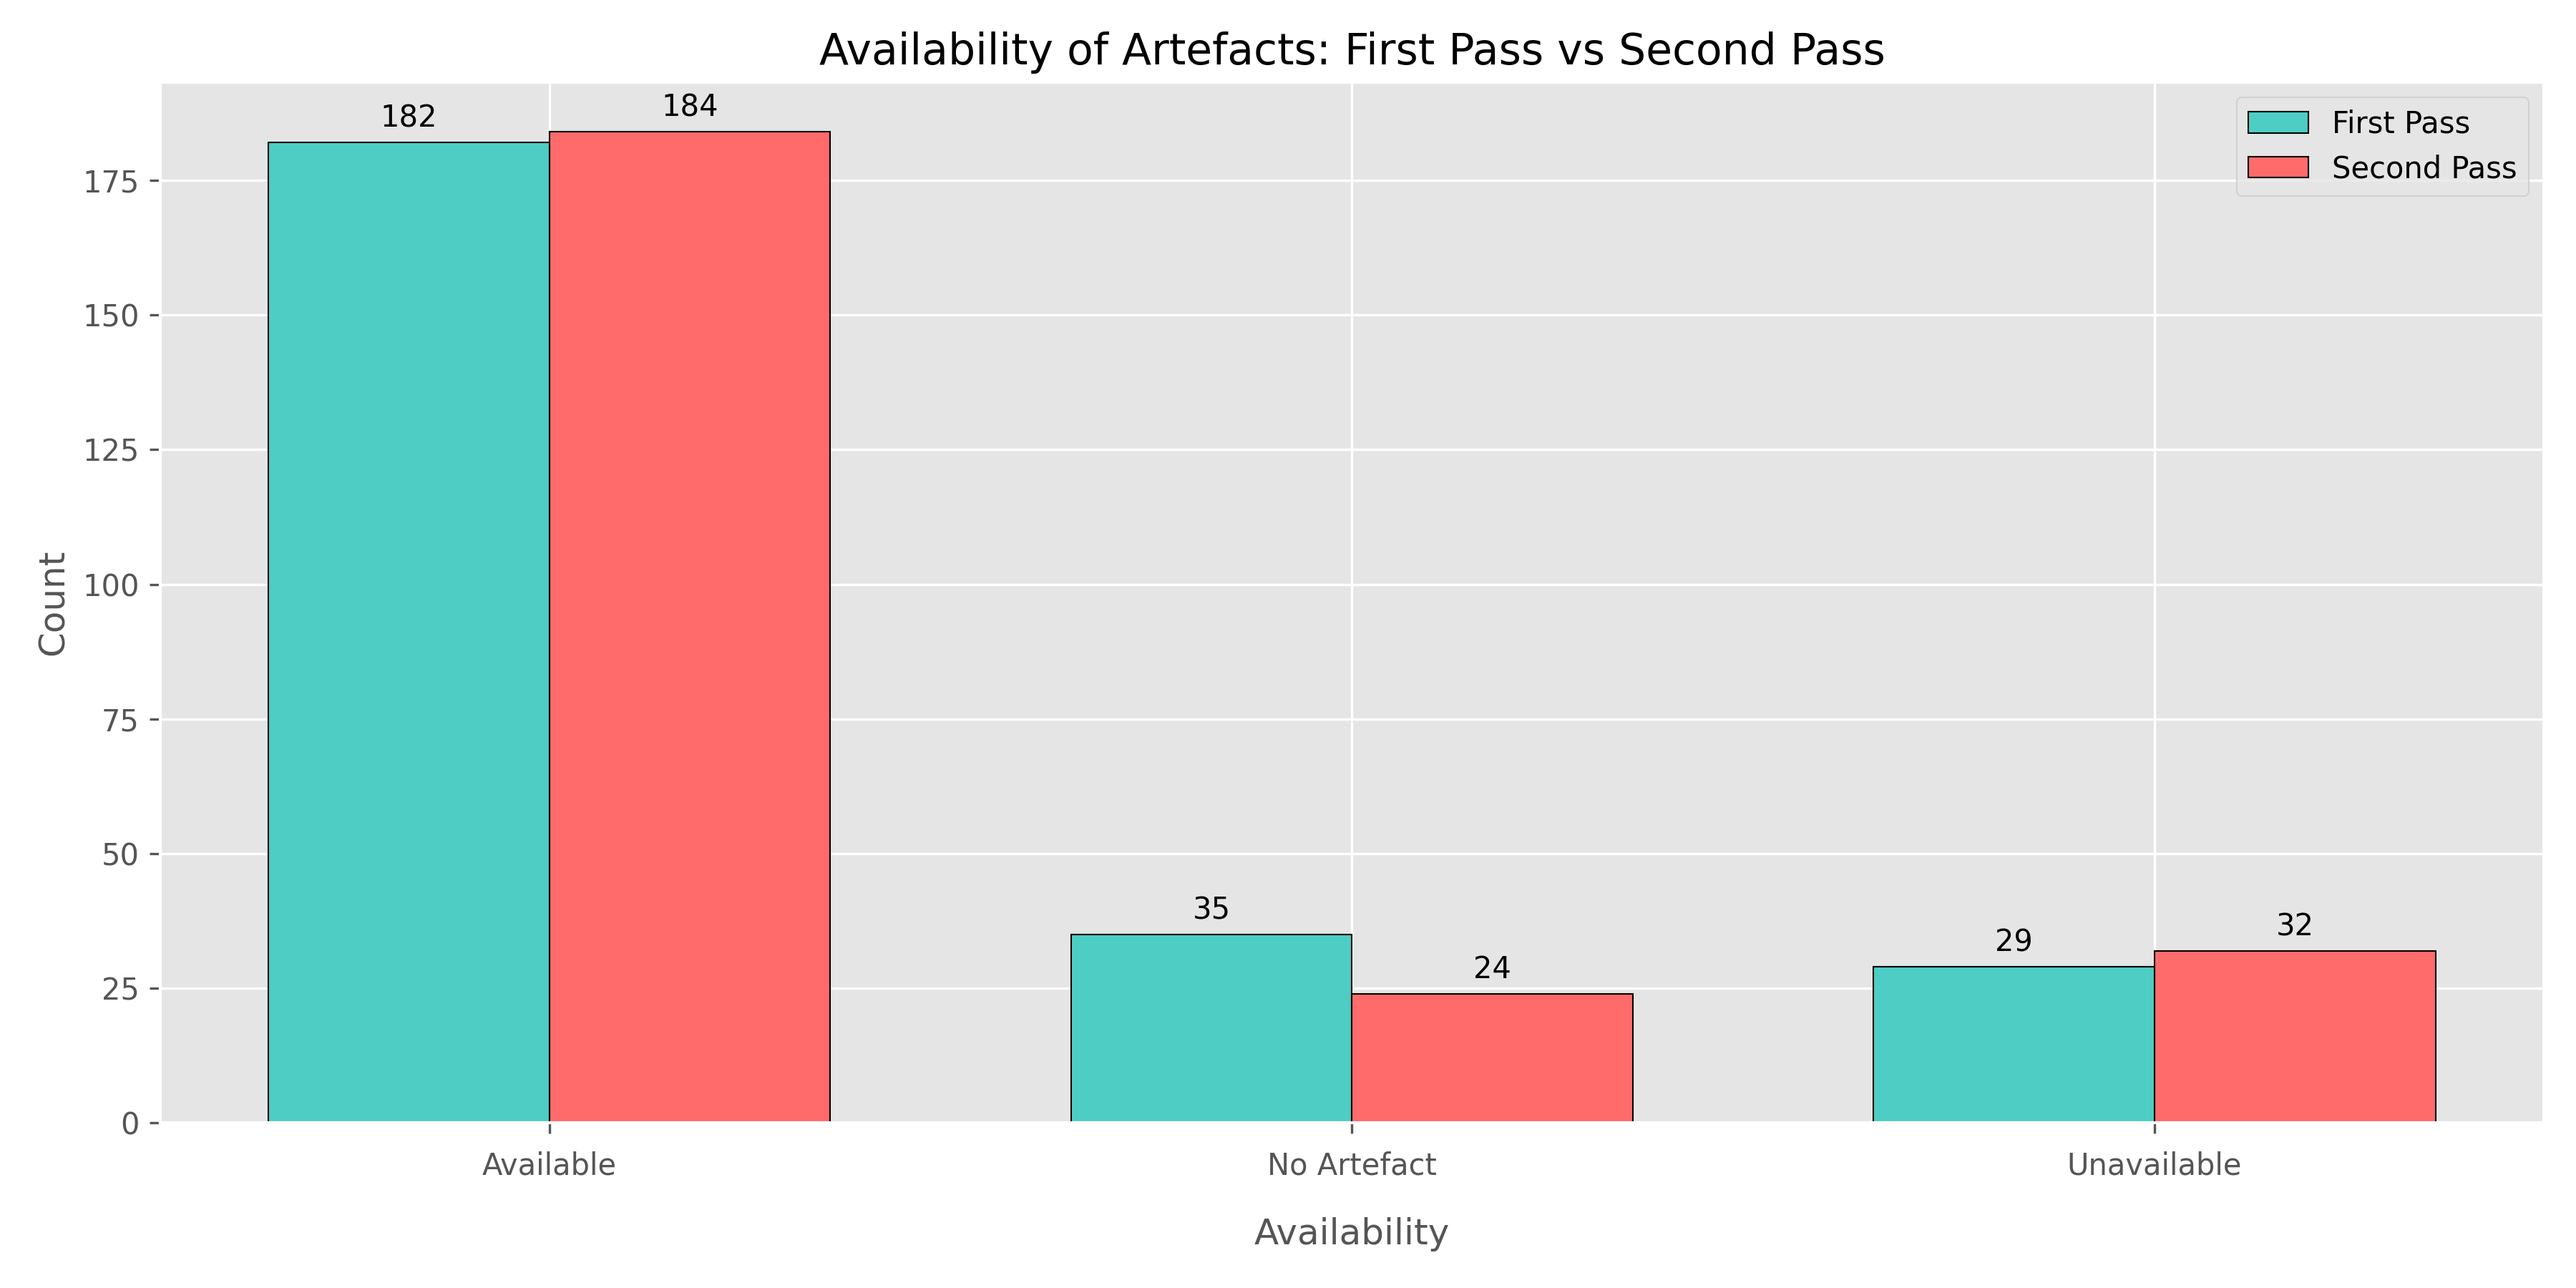
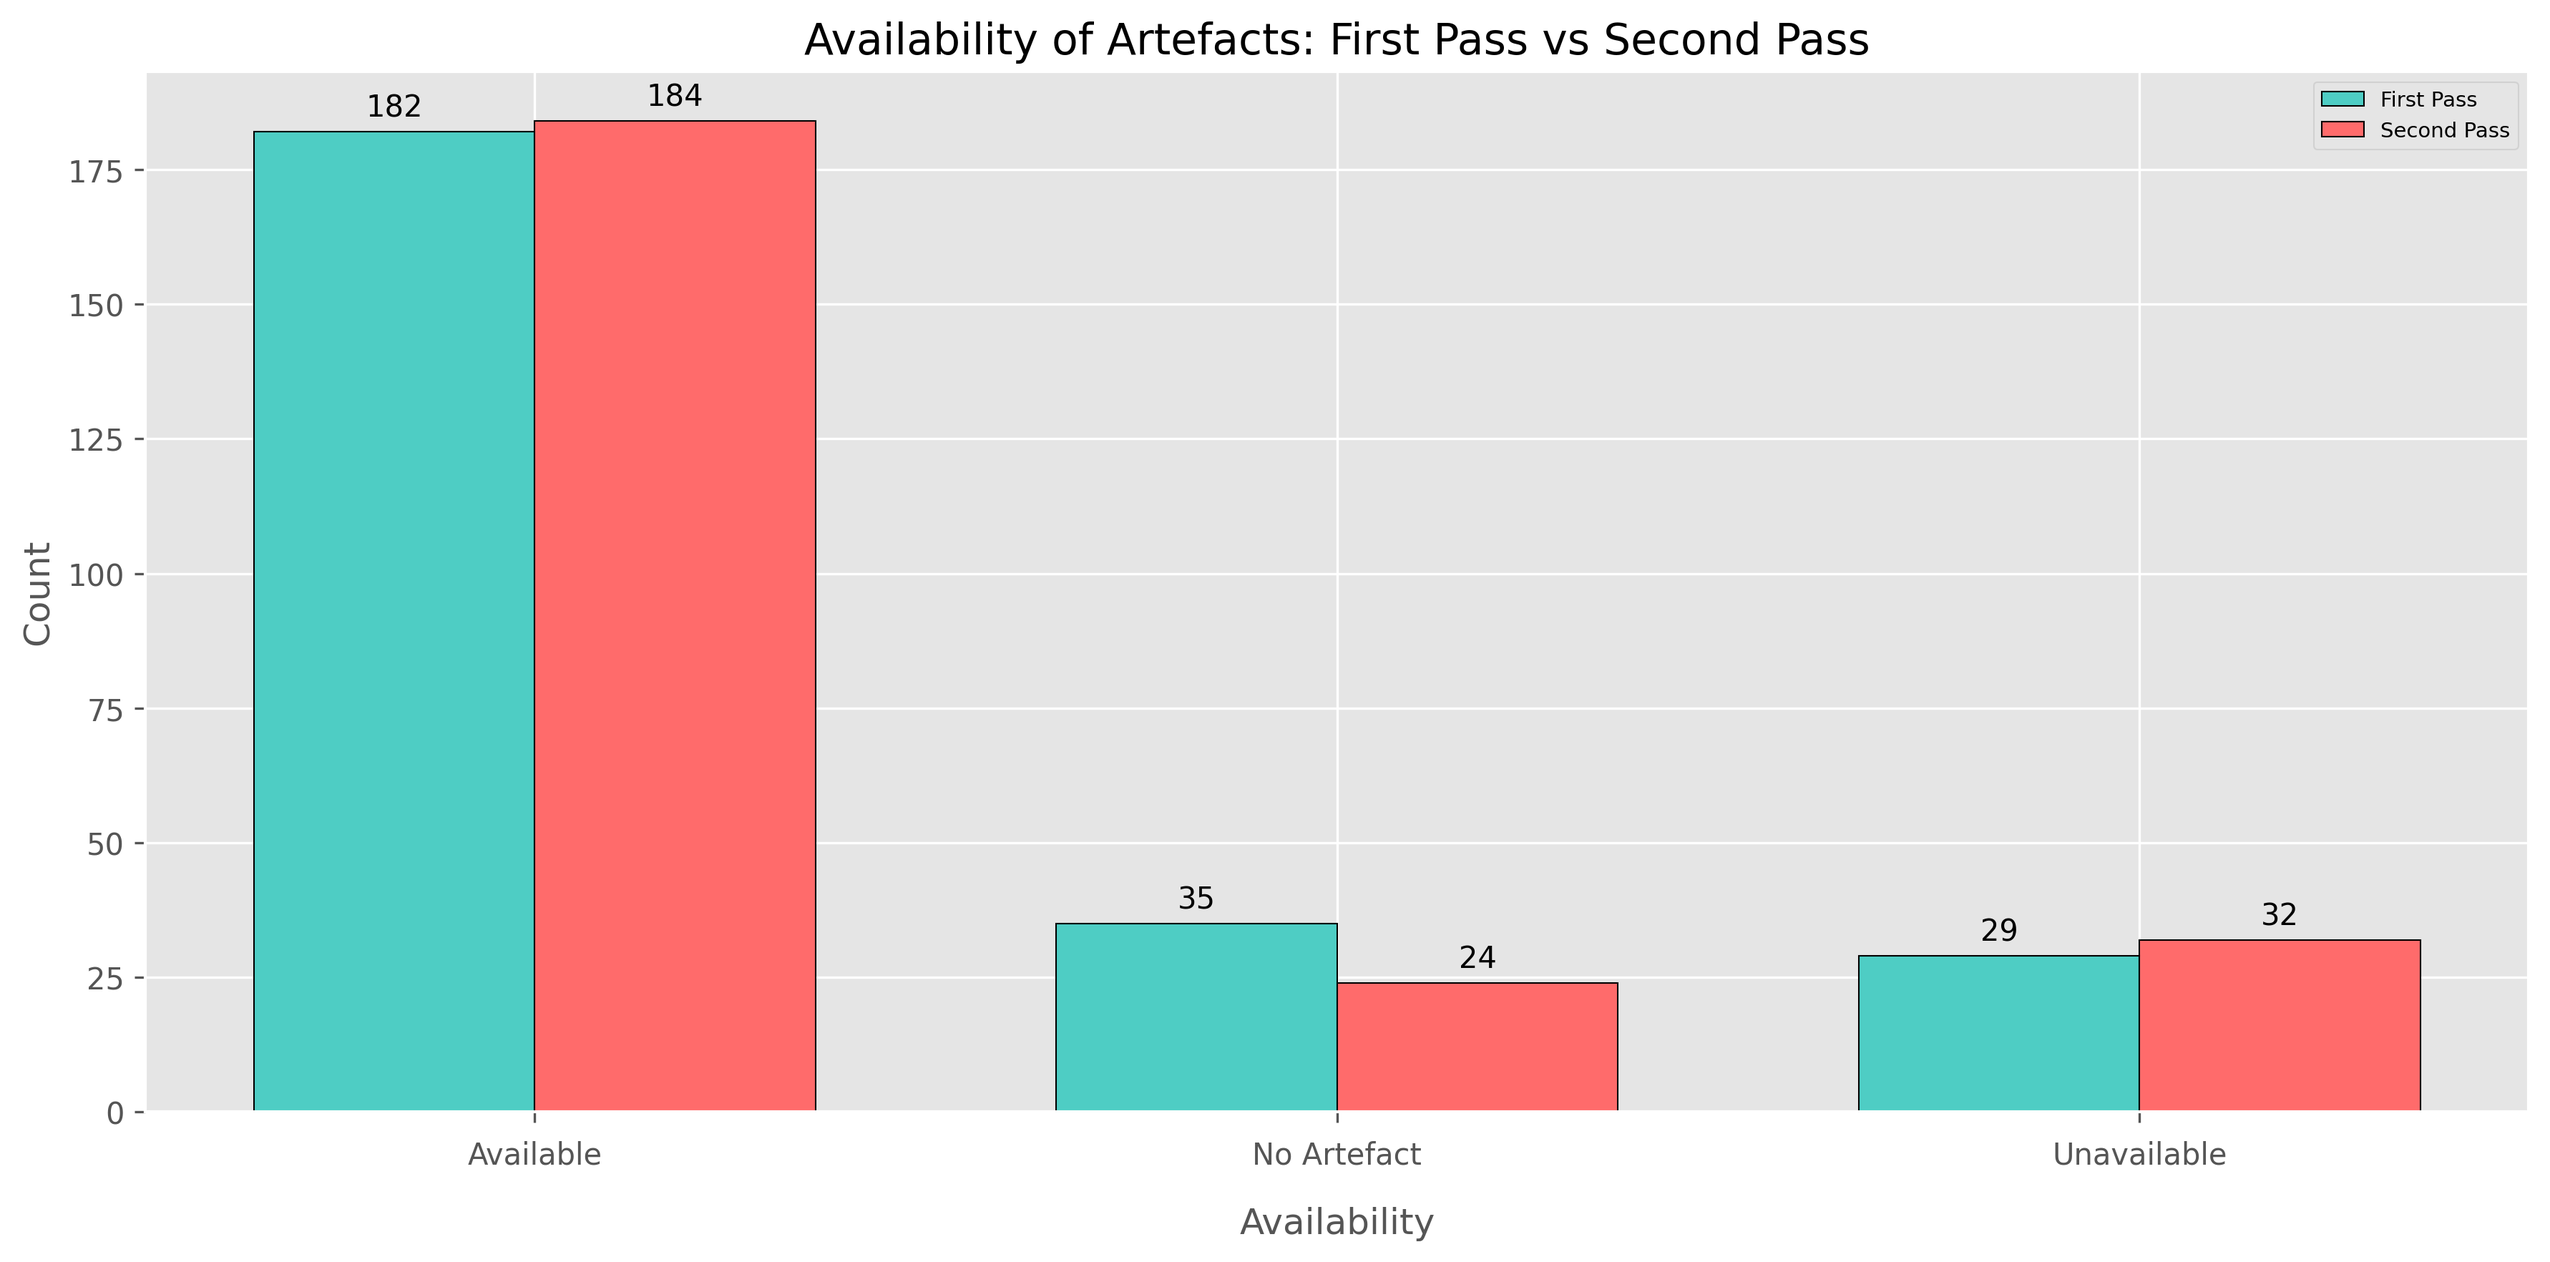
fixed plotting / plotting_scripts

diff --git a/plotting_scripts/repository_stats.py b/plotting_scripts/repository_stats.py
@@ -5,6 +5,9 @@ This file collects and plots some information on our results
 import pandas as pd
 import matplotlib.pyplot as plt
 import os
+import numpy as np
+import re
+from pathlib import Path
 
 
 def get_repo_stats_available(file):
@@ -95,29 +98,50 @@ def get_repo_stats_available(file):
             pass
     return counts_available, counts_unavailable
 
-def plot_graph(stats, filename, title):
+def plot_graph(stats1, stats2, title, label1='First Pass', label2='Second Pass'):
     """
-    A void function to plot the information from get_repo_stats and save it to a png
+    Plot grouped bar charts for two repository statistics dictionaries and save the result.
 
     Args:
-        stats (dict): A dictionary of the counts_available of each repository service
-        filename (str): Filename for the graph
+        stats1 (dict): Counts for the first pass.
+        stats2 (dict): Counts for the second pass.
+        filename (str): Filename for the graph output.
+        title (str): Title for the chart.
+        label1 (str): Label for the first set of bars.
+        label2 (str): Label for the second set of bars.
     """
+    plt.rcParams.update({
+        "figure.figsize": (3.5, 2.5),  # Set exact size
+        "font.size": 8,                # Match paper caption size
+        "axes.labelsize": 9,
+        "legend.fontsize": 7,
+        "savefig.bbox": 'tight',       # Removes wasted white space
+        "lines.linewidth": 1.2
+    })
     plt.style.use('ggplot')
-    sorted_items = sorted(stats.items(), key=lambda item: item[1], reverse=True)
-    categories = [item[0] for item in sorted_items]
-    counts_available = [item[1] for item in sorted_items]
-    colors = ['#FF6B6B', '#4ECDC4', '#45B7D1', '#FFA07A', '#B0E0E6', '#E0BBE4', '#F7CAC9', '#E8F1D4', '#FFD1DC']
+    categories = sorted(
+        set(stats1) | set(stats2),
+        key=lambda item: max(stats1.get(item, 0), stats2.get(item, 0)),
+        reverse=True,
+    )
+    values1 = [stats1.get(category, 0) for category in categories]
+    values2 = [stats2.get(category, 0) for category in categories]
 
-    fig, ax = plt.subplots(figsize=(12, 6))
-    bars = ax.bar(categories, counts_available, color=colors[:len(categories)], edgecolor='black', linewidth=0.5)
+    x = np.arange(len(categories))
+    width = 0.35
+
+    fig, ax = plt.subplots(figsize=(14, 7))
+    bars1 = ax.bar(x - width / 2, values1, width, label=label1, color='#4ECDC4', edgecolor='black', linewidth=0.5)
+    bars2 = ax.bar(x + width / 2, values2, width, label=label2, color='#FF6B6B', edgecolor='black', linewidth=0.5)
+
     ax.set_xlabel('Repository Service')
     ax.set_ylabel('Count')
     ax.set_title(title)
-    ax.set_xticks(range(len(categories)))
+    ax.set_xticks(x)
     ax.set_xticklabels(categories, rotation=45, ha='right')
+    ax.legend()
 
-    for bar in bars:
+    for bar in list(bars1) + list(bars2):
         height = bar.get_height()
         ax.annotate(
             f'{int(height)}',
@@ -129,7 +153,11 @@ def plot_graph(stats, filename, title):
         )
 
     fig.tight_layout()
-    fig.savefig(f"graphs/{filename}.png", dpi=300)
+    graphs_dir = Path("graphs")
+    graphs_dir.mkdir(exist_ok=True)
+    title = ax.get_title()
+    safe_title = re.sub(r"[^A-Za-z0-9]+", "_", title.strip()).strip("_").lower() or "plot"
+    fig.savefig(graphs_dir / f"{safe_title}.png", dpi=300, bbox_inches="tight")
 
 def repo_stats_main():
     """
@@ -152,10 +180,20 @@ def repo_stats_main():
     print(f"Second pass (out of available papers): {second_pass_available}")
     print(f"Second pass (out of unavailable papers): {second_pass_unavailable}")
 
-    plot_graph(first_pass_available, "repos_first_pass_available", "Repository Service Counts (from available artefacts) (first pass)")
-    plot_graph(second_pass_available, "repos_second_pass_available", "Repository Service Counts (from available artefacts) (second pass)")
-    plot_graph(first_pass_unavailable, "repos_first_pass_unavailable", "Repository Service Counts (from unavailable artefacts) (first pass)")
-    plot_graph(second_pass_unavailable, "repos_second_pass_unavailable", "Repository Service Counts (from unavailable artefacts) (second pass)")
+    plot_graph(
+        first_pass_available,
+        second_pass_available,
+        "Repository Service Counts (available artefacts): First Pass vs Second Pass",
+        label1='First Pass',
+        label2='Second Pass',
+    )
+    plot_graph(
+        first_pass_unavailable,
+        second_pass_unavailable,
+        "Repository Service Counts (unavailable artefacts): First Pass vs Second Pass",
+        label1='First Pass',
+        label2='Second Pass',
+    )
 
 if __name__ == '__main__':
     repo_stats_main()

diff --git a/plotting_scripts/artefact_availability.py b/plotting_scripts/artefact_availability.py
@@ -53,7 +53,14 @@ def plot_graph(stats1, stats2, filename, title, label1='First Pass', label2='Sec
         label1 (str): First pass legend label.
         label2 (str): Second pass legend label.
     """
-
+    plt.rcParams.update({
+        "figure.figsize": (3.5, 2.5),  # Set exact size
+        "font.size": 8,                # Match paper caption size
+        "axes.labelsize": 9,
+        "legend.fontsize": 7,
+        "savefig.bbox": 'tight',       # Removes wasted white space
+        "lines.linewidth": 1.2
+    })
     plt.style.use('ggplot')
     categories = sorted(set(stats1) | set(stats2), key=lambda item: max(stats1.get(item, 0), stats2.get(item, 0)), reverse=True)
     values1 = [stats1.get(category, 0) for category in categories]
